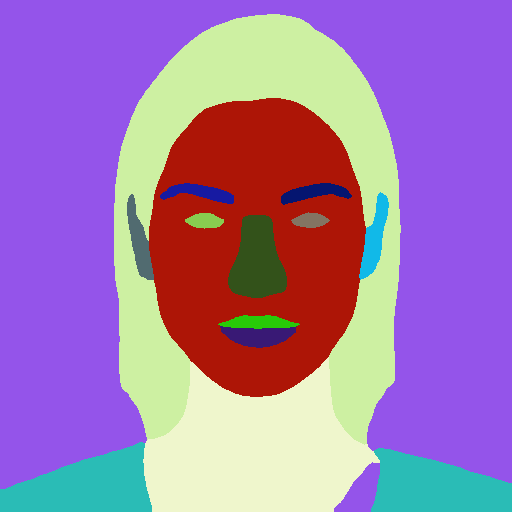
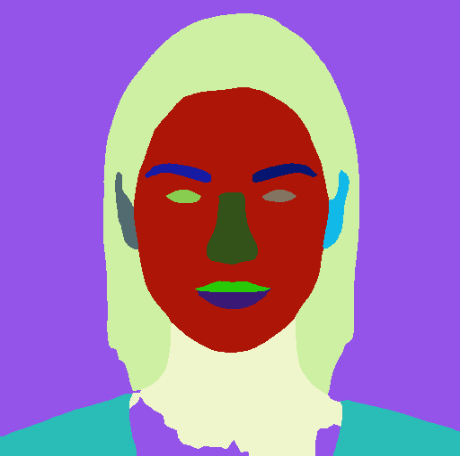
Updated evaluation script and README.md

diff --git a/eval.py b/eval.py
@@ -35,8 +35,9 @@ def load_input(image_path: pathlib.Path) -> torch.Tensor:
         ]
     )
     image = cv2.imread(str(image_path))
+    shape = image.shape[:2][::-1]
     input = transform(image)
-    return torch.unsqueeze(input, dim=0)
+    return torch.unsqueeze(input, dim=0), shape
 
 
 def load_mapping(mapping_path: pathlib.Path) -> dict:
@@ -49,7 +50,7 @@ if __name__ == '__main__':
     setup_logging()
     args = parse_arguments()
     
-    input_image = load_input(image_path=args.input)
+    input_image, init_shape = load_input(image_path=args.input)
     logger.info('Loaded input image.')
     mapping = load_mapping(mapping_path=args.mapping)
     color_map = load_mapping(mapping_path=args.color_map)
@@ -62,6 +63,7 @@ if __name__ == '__main__':
     segmentation = model_output['out']
     logger.debug('Ended inferencing.')
     output_image = construct_image(output=segmentation[0], mapping=mapping, color_mapping=color_map)
+    output_image = cv2.resize(output_image, dsize=init_shape)
     logger.debug('Constructed image.')
     cv2.imwrite(str(args.output), output_image)
     logger.info('Saved image.')

diff --git a/README.md b/README.md
@@ -27,7 +27,17 @@ options:
 After starting the training CelebAMask-HQ dataset will be automatically downloaded. If there is any troubles with downloading using gdown you can access it on [Google Drive](https://drive.google.com/file/d/17e_IRjSuise59WUDHVrwZKES71KzJ9bU/view?usp=share_link). For usage you must unzip CelebAMask-HQ.zip into datasets/CelebAMask-HQ folder.
 
 ## Evaluation
-TBD
+To evaluate you need to download weights of the model from the [Google Drive](https://drive.google.com/file/d/1YR4LTi-CIYl8zr7JmtJj5jcrpdsJx9Nd/view?usp=share_link).
+For example inference use the following command:
+```
+python eval.py --mapping datasets/CelebAMask-HQ/mapping.json --model runs/best_weights.pt -i example/input.png -cmap example/color_mapping.json
+```
+
+Example of evaluation is:
+
+![Input](./example/input.png) ![Output](./example/output.png)
+
+In the future weights can be improved.
 
 # :warning: TODO :warning:
 This list will be updated throughout the time. Contributions are hugely appreciated!
@@ -38,7 +48,7 @@ Implement Tensorboard logging|:white_check_mark:|
 Implement callback for precision|:white_check_mark:|
 Implement callback for recall|:white_check_mark:|
 Implement script for the evaluation|:white_check_mark:| 
-Train weights and make them public|:white_square_button:|
+Train weights and make them public|:white_check_mark:|
 
 # Citations
 ```
